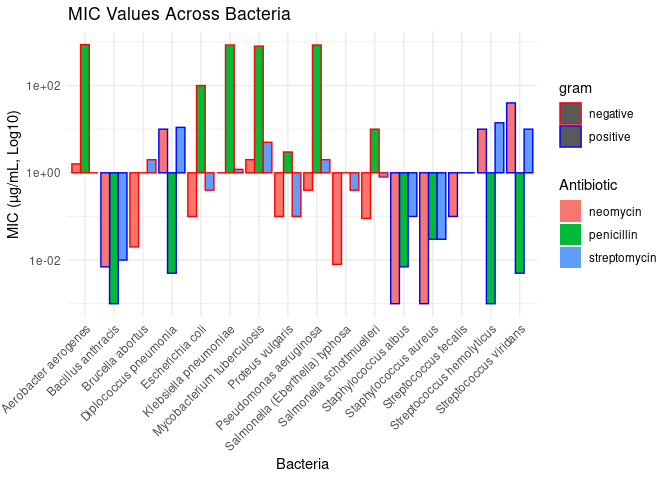
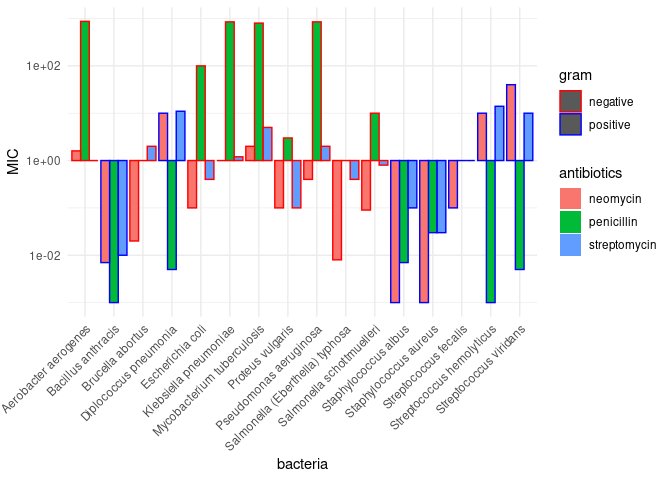
finished c5 antibiotics

diff --git a/data-science-curriculum-build/challenges/c05-antibiotics-assignment.md b/data-science-curriculum-build/challenges/c05-antibiotics-assignment.md
@@ -192,8 +192,8 @@ df_long <-df_antibiotics %>%
   pivot_longer(cols = c(penicillin, streptomycin, neomycin), names_to = "antibiotics", values_to = "MIC" ) 
 df_long%>%
   ggplot( aes(x = bacteria, y = MIC, color = antibiotics, shape = gram)) +
-  scale_y_log10()+
-   geom_point(size = 4) +
+  scale_y_log10() +
+  geom_point(size = 4) +
   theme_minimal() +
   theme(axis.text.x = element_text(angle = 45, hjust = 1)) 
 ```
@@ -217,10 +217,6 @@ df_long %>%
   geom_bar(stat = "identity", position = "dodge") +
   scale_y_log10() +
   scale_color_manual(values = c("positive" = "blue", "negative" = "red")) +
-  labs(title = "MIC Values Across Bacteria",
-       x = "Bacteria",
-       y = "MIC (µg/mL, Log10)",
-       fill = "Antibiotic") +
   theme_minimal() +
   theme(axis.text.x = element_text(angle = 45, hjust = 1))
 ```
@@ -239,11 +235,12 @@ your other visuals.
 ``` r
 # WRITE YOUR CODE HERE
 df_long %>% 
-  # filter(antibiotics == "penicillin") %>% 
-  ggplot(aes(x = bacteria, y = MIC, color = gram))+
-  geom_point(size = 3)+
+  filter(antibiotics == "penicillin") %>% 
+  ggplot(aes(x = bacteria, y = MIC, fill = gram))+
+  geom_bar(stat = "identity")+
   scale_y_log10()+
   theme_minimal() +
+  labs(title = "MIC values across bactaerias with penicillin")+
   theme(axis.text.x = element_text(angle = 45, hjust = 1))
 ```
 
@@ -261,28 +258,16 @@ your other visuals.
 ``` r
 # WRITE YOUR CODE HERE
 df_long %>% 
-  filter(antibiotics == "streptomycin")
+  filter(antibiotics == "streptomycin") %>% 
+  ggplot(aes(x = bacteria, y = MIC, fill = gram))+
+  geom_bar(stat = "identity")+
+  scale_y_log10()+
+  theme_minimal() +
+  labs(title = "MIC values across bactaerias with streptomycin")+
+  theme(axis.text.x = element_text(angle = 45, hjust = 1))
 ```
 
-    ## # A tibble: 16 × 4
-    ##    bacteria                        gram     antibiotics    MIC
-    ##    <chr>                           <chr>    <chr>        <dbl>
-    ##  1 Aerobacter aerogenes            negative streptomycin  1   
-    ##  2 Brucella abortus                negative streptomycin  2   
-    ##  3 Bacillus anthracis              positive streptomycin  0.01
-    ##  4 Diplococcus pneumonia           positive streptomycin 11   
-    ##  5 Escherichia coli                negative streptomycin  0.4 
-    ##  6 Klebsiella pneumoniae           negative streptomycin  1.2 
-    ##  7 Mycobacterium tuberculosis      negative streptomycin  5   
-    ##  8 Proteus vulgaris                negative streptomycin  0.1 
-    ##  9 Pseudomonas aeruginosa          negative streptomycin  2   
-    ## 10 Salmonella (Eberthella) typhosa negative streptomycin  0.4 
-    ## 11 Salmonella schottmuelleri       negative streptomycin  0.8 
-    ## 12 Staphylococcus albus            positive streptomycin  0.1 
-    ## 13 Staphylococcus aureus           positive streptomycin  0.03
-    ## 14 Streptococcus fecalis           positive streptomycin  1   
-    ## 15 Streptococcus hemolyticus       positive streptomycin 14   
-    ## 16 Streptococcus viridans          positive streptomycin 10
+![](c05-antibiotics-assignment_files/figure-gfm/q1.4-1.png)<!-- -->
 
 #### Visual 5 (Some variables)
 
@@ -296,28 +281,129 @@ your other visuals.
 ``` r
 # WRITE YOUR CODE HERE
 df_long %>% 
-  filter(antibiotics == "neomycin")
+  filter(antibiotics == "neomycin") %>% 
+  ggplot(aes(x = bacteria, y = MIC, fill = gram))+
+  geom_bar(stat = "identity")+
+  scale_y_log10()+
+  theme_minimal() +
+  labs(title = "MIC values across bactaerias with neomycin")+
+  theme(axis.text.x = element_text(angle = 45, hjust = 1))
+```
+
+![](c05-antibiotics-assignment_files/figure-gfm/q1.5-1.png)<!-- -->
+
+``` r
+df_long %>% 
+  ggplot(aes(x = antibiotics, y = MIC, color = bacteria))+
+  scale_y_log10()+
+  geom_point(size = 3, position = position_jitter(width = 0.2, height = 0))
+```
+
+![](c05-antibiotics-assignment_files/figure-gfm/unnamed-chunk-1-1.png)<!-- -->
+
+``` r
+# Convert data to wide format for PCA
+bacteria_pca <- df_long %>%
+  select(bacteria, antibiotics, MIC) %>%
+  spread(key = antibiotics, value = MIC)
+bacteria_pca
 ```
 
     ## # A tibble: 16 × 4
-    ##    bacteria                        gram     antibiotics    MIC
-    ##    <chr>                           <chr>    <chr>        <dbl>
-    ##  1 Aerobacter aerogenes            negative neomycin     1.6  
-    ##  2 Brucella abortus                negative neomycin     0.02 
-    ##  3 Bacillus anthracis              positive neomycin     0.007
-    ##  4 Diplococcus pneumonia           positive neomycin    10    
-    ##  5 Escherichia coli                negative neomycin     0.1  
-    ##  6 Klebsiella pneumoniae           negative neomycin     1    
-    ##  7 Mycobacterium tuberculosis      negative neomycin     2    
-    ##  8 Proteus vulgaris                negative neomycin     0.1  
-    ##  9 Pseudomonas aeruginosa          negative neomycin     0.4  
-    ## 10 Salmonella (Eberthella) typhosa negative neomycin     0.008
-    ## 11 Salmonella schottmuelleri       negative neomycin     0.09 
-    ## 12 Staphylococcus albus            positive neomycin     0.001
-    ## 13 Staphylococcus aureus           positive neomycin     0.001
-    ## 14 Streptococcus fecalis           positive neomycin     0.1  
-    ## 15 Streptococcus hemolyticus       positive neomycin    10    
-    ## 16 Streptococcus viridans          positive neomycin    40
+    ##    bacteria                        neomycin penicillin streptomycin
+    ##    <chr>                              <dbl>      <dbl>        <dbl>
+    ##  1 Aerobacter aerogenes               1.6      870             1   
+    ##  2 Bacillus anthracis                 0.007      0.001         0.01
+    ##  3 Brucella abortus                   0.02       1             2   
+    ##  4 Diplococcus pneumonia             10          0.005        11   
+    ##  5 Escherichia coli                   0.1      100             0.4 
+    ##  6 Klebsiella pneumoniae              1        850             1.2 
+    ##  7 Mycobacterium tuberculosis         2        800             5   
+    ##  8 Proteus vulgaris                   0.1        3             0.1 
+    ##  9 Pseudomonas aeruginosa             0.4      850             2   
+    ## 10 Salmonella (Eberthella) typhosa    0.008      1             0.4 
+    ## 11 Salmonella schottmuelleri          0.09      10             0.8 
+    ## 12 Staphylococcus albus               0.001      0.007         0.1 
+    ## 13 Staphylococcus aureus              0.001      0.03          0.03
+    ## 14 Streptococcus fecalis              0.1        1             1   
+    ## 15 Streptococcus hemolyticus         10          0.001        14   
+    ## 16 Streptococcus viridans            40          0.005        10
+
+``` r
+# Perform PCA (excluding bacteria column)
+pca_result <- prcomp(bacteria_pca[, -1], scale. = TRUE)#excludes the first column of bacteria names 
+#prcomp: function for priciple component analysis
+
+# Create a dataframe for plotting
+pca_df <- data.frame(bacteria = bacteria_pca$bacteria, #adds the bacteria names back
+                     PC1 = pca_result$x[, 1], #extracts first pca vector 
+                     PC2 = pca_result$x[, 2], #extracts second
+                     gram = df_long$gram[match(bacteria_pca$bacteria, df_long$bacteria)])  # Add Gram type back
+pca_df
+```
+
+    ##                           bacteria        PC1         PC2     gram
+    ## 1             Aerobacter aerogenes -0.9578654  1.52888294 negative
+    ## 2               Bacillus anthracis -0.5731209 -0.78205432 positive
+    ## 3                 Brucella abortus -0.2749643 -0.67396781 negative
+    ## 4            Diplococcus pneumonia  1.7485195 -0.05183599 positive
+    ## 5                 Escherichia coli -0.5820740 -0.50315172 negative
+    ## 6            Klebsiella pneumoniae -0.9537631  1.47917450 negative
+    ## 7       Mycobacterium tuberculosis -0.2802382  1.56672423 negative
+    ## 8                 Proteus vulgaris -0.5555620 -0.76820466 negative
+    ## 9           Pseudomonas aeruginosa -0.8745372  1.51259914 negative
+    ## 10 Salmonella (Eberthella) typhosa -0.5153844 -0.75883123 negative
+    ## 11       Salmonella schottmuelleri -0.4565649 -0.71332191 negative
+    ## 12            Staphylococcus albus -0.5600531 -0.77736455 positive
+    ## 13           Staphylococcus aureus -0.5705529 -0.78101044 positive
+    ## 14           Streptococcus fecalis -0.4193092 -0.72570692 positive
+    ## 15       Streptococcus hemolyticus  2.1977884  0.10693824 positive
+    ## 16          Streptococcus viridans  3.6276816  0.34113052 positive
+
+``` r
+# Plot PCA results
+ggplot(pca_df, aes(x = PC1, y = PC2, color = gram, label = bacteria)) +
+  geom_point(size = 3) +
+  geom_text_repel(size = 3, max.overlaps = 20) +  # Prevent text overlap
+  # geom_text(vjust = 1, hjust = 1, size = 3) +
+  labs(title = "PCA of Bacteria Based on MIC Values",
+       x = "Principal Component 1",
+       y = "Principal Component 2",
+       color = "Gram Type") +
+  theme_minimal()
+```
+
+![](c05-antibiotics-assignment_files/figure-gfm/unnamed-chunk-2-1.png)<!-- -->
+
+``` r
+library(ggplot2)
+library(ggrepel)
+
+# Define target bacteria
+target_bacteria <- c("Streptococcus fecalis", "Diplococcus pneumonia")
+
+# Create a new column for highlighting (keep original Gram colors for others)
+pca_df$highlight <- ifelse(pca_df$bacteria %in% target_bacteria, pca_df$bacteria, pca_df$gram)
+
+# Define custom colors for the two bacteria, keeping others unchanged
+custom_colors <- c("Streptococcus fecalis" = "blue", 
+                   "Diplococcus pneumonia" = "red", 
+                   "positive" = "darkorange",  # Default color for Gram-positive
+                   "negative" = "purple")      # Default color for Gram-negative
+
+# Plot
+ggplot(pca_df, aes(x = PC1, y = PC2, label = bacteria, color = highlight)) +
+  geom_point(size = 3) +  
+  geom_text_repel(size = 3, max.overlaps = 20) +  
+  scale_color_manual(values = custom_colors) +  # Apply custom colors only to target bacteria
+  labs(title = "PCA of Bacteria Based on MIC Values",
+       x = "Principal Component 1",
+       y = "Principal Component 2",
+       color = "Bacteria Type") +
+  theme_minimal()
+```
+
+![](c05-antibiotics-assignment_files/figure-gfm/unnamed-chunk-3-1.png)<!-- -->
 
 ### **q2** Assess your visuals
 
@@ -338,10 +424,32 @@ opportunity to think about why this is.**
 > How do the three antibiotics vary in their effectiveness against
 > bacteria of different genera and Gram stain?
 
-*Observations* - What is your response to the question above? - (Write
-your response here) - Which of your visuals above (1 through 5) is
-**most effective** at helping to answer this question? - (Write your
-response here) - Why? - (Write your response here)
+*Observations* - What is your response to the question above?
+-*penicillin*: We can see that in the bar plot with penicillin isolated,
+if we make MIC value 1 the bases of comparison, all bacteria gram type
+negative has higher MIC values while all bacteria gram type positive has
+lower MIC values. This tells me that bacteria gram type negative is more
+resistant to *penicillin* than type positive. -*streptomycin*: For
+streptomycin, I’d say there isn’t a very obvious relationship between
+Gram type and MIC values. However, I did notice that Gram-negative
+bacteria tend to have more stable MIC values, mostly fluctuating around
+1, while Gram-positive bacteria show greater variation. This suggests
+that streptomycin might generally be more effective against
+Gram-negative bacteria, though the trend isn’t entirely clear.
+-*neomycin*: If we once again make MIC value 1 our basis of comparison,
+we can see that neomycin is generally effective across the board (with a
+couple of exceptions) especially in the staphyloccocus group. I also
+don’t see much correlation between the gram type and the MIC values.
+
+- Which of your visuals above (1 through 5) is **most effective** at
+  helping to answer this question?
+  - 3 4 and 5 where I isolated the three different antibiotic tested in
+    plotting.
+- Why?
+  - It is easier to see the relationship between gram types and
+    different antibiotics because there are less information presented
+    at once and less prone to being overwhelmed by all the
+    information(plot 1 and 2).
 
 #### Guiding Question 2
 
@@ -352,10 +460,28 @@ and in 1984 *Streptococcus fecalis* was renamed *Enterococcus fecalis*
 > Why was *Diplococcus pneumoniae* was renamed *Streptococcus
 > pneumoniae*?
 
-*Observations* - What is your response to the question above? - (Write
-your response here) - Which of your visuals above (1 through 5) is
-**most effective** at helping to answer this question? - (Write your
-response here) - Why? - (Write your response here)
+*Observations* - What is your response to the question above? - Ok so at
+first when I was reading the question I understood that I will probably
+have to derive some sort of clustering between the bacteria based on
+their MIC values to different antibiotics. I tried by using scatter plot
+with the x axis being different antibiotics and the y axis with the MIC
+values, it was very ahrd to see any relationships and grouping because
+there were too many bacteria. I guess you can sort of see some bacteria
+having similar reactions to antibiotics in plot 2 of the bar plot,
+however I am still not getting the clustering and clear mapping of
+groups of bacteria I wanted to get. I ultimately consulted chatgpt for
+PCA and it produced the PCA plots. I went and understood every single
+line of code and added comments. We can hypothesize that the reason why
+*Diplococcus pneumoniae* was renamed *Streptococcus pneumoniae* is
+because that in our PCA plot you can see that Diplococcus pneumoniae is
+clustering with *Streptococcus hemolyticus* and *Streptococcus
+viridans*. This suggests that *Diplococcus pneumonia* shares structural
+or behavioral similarities with the *Streptococcus* group, which might
+explain why it was reclassified as *Streptococcus pneumoniae*. - Which
+of your visuals above (1 through 5) is **most effective** at helping to
+answer this question? - I would say the PCA plots were the most
+helpful. - Why? - Because it directly shows the clustering between
+bacteria of how similarly they reacted to different antibiotics.
 
 # References
 
